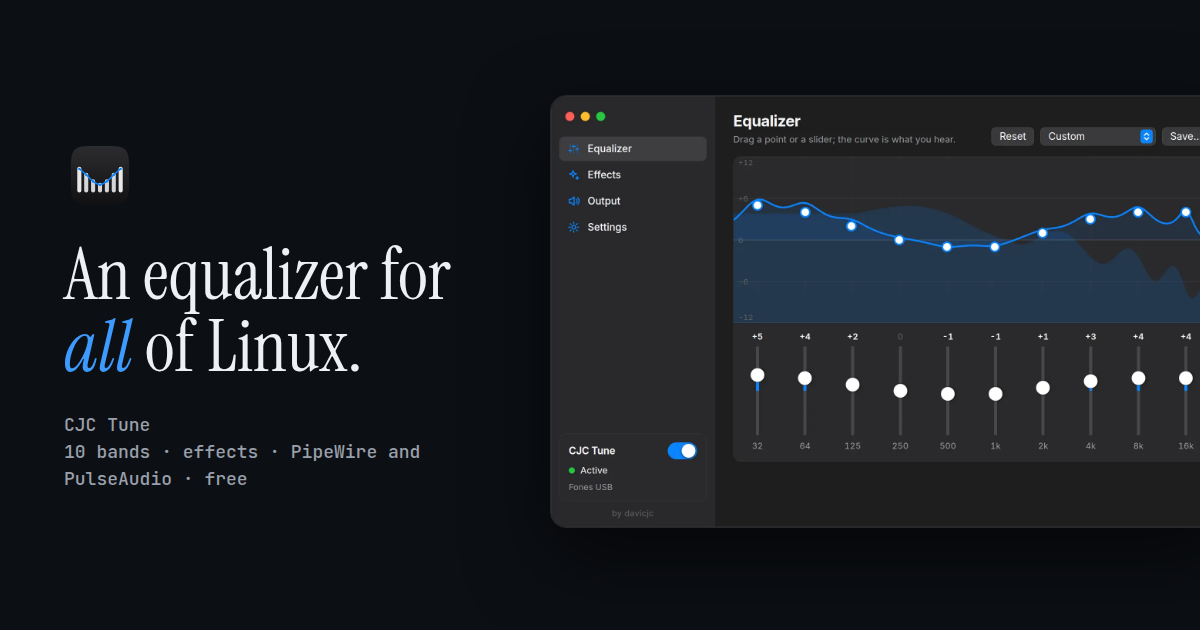
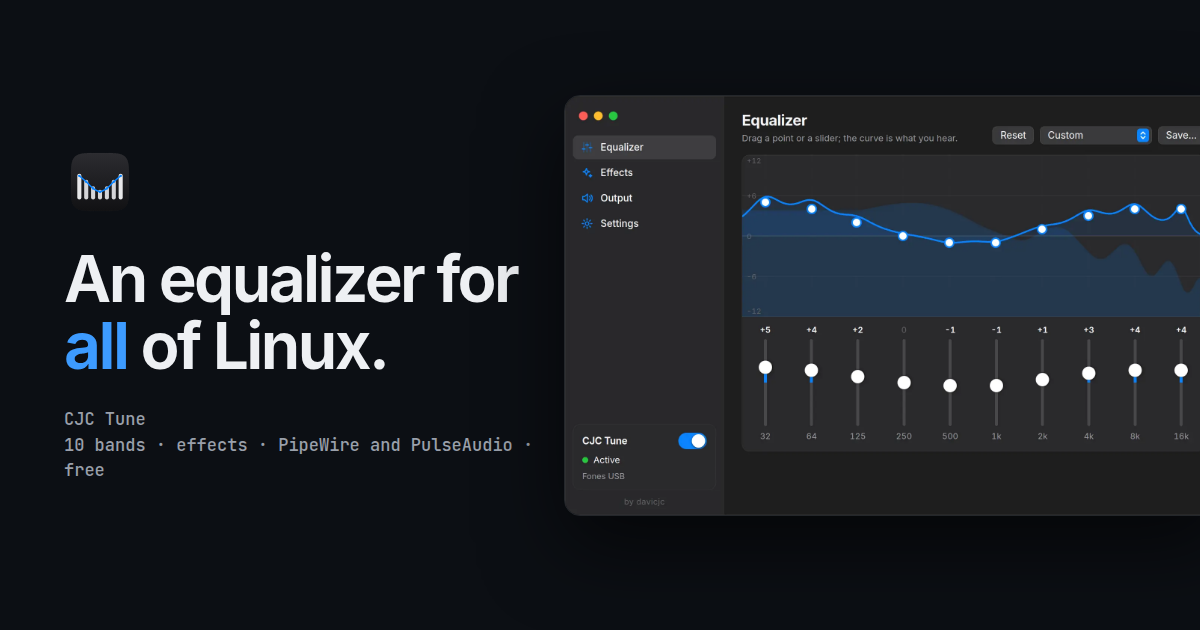
Página: tudo centralizado e títulos em Inter
- Topo, hero, cabeçalhos, fluxo, recursos, demo, telas, instalar e
  perguntas no mesmo eixo central; o hero vira coluna com a curva grande
  embaixo; o baralho de telas fica no meio com o texto em cima.
- Títulos em Inter 650 com espaçamento apertado (sai a serifada);
  ênfase só pela cor. Imagens de compartilhamento refeitas.

diff --git a/site/estilo.css b/site/estilo.css
@@ -5,8 +5,6 @@
 
 @font-face { font-family: "Inter"; src: url("fontes/inter-latin-wght-normal.woff2") format("woff2"); font-weight: 100 900; font-display: swap; unicode-range: U+0000-00FF, U+0131, U+0152-0153, U+02BB-02BC, U+02C6, U+02DA, U+02DC, U+2000-206F, U+20AC, U+2122, U+2191, U+2193, U+2212, U+2215, U+FEFF, U+FFFD; }
 @font-face { font-family: "Inter"; src: url("fontes/inter-latin-ext-wght-normal.woff2") format("woff2"); font-weight: 100 900; font-display: swap; unicode-range: U+0100-02AF, U+0304, U+0308, U+0329, U+1E00-1E9F, U+1EF2-1EFF, U+2020, U+20A0-20AB, U+20AD-20C0, U+2113, U+2C60-2C7F, U+A720-A7FF; }
-@font-face { font-family: "Instrument Serif"; src: url("fontes/instrument-serif-latin-400-normal.woff2") format("woff2"); font-weight: 400; font-style: normal; font-display: swap; }
-@font-face { font-family: "Instrument Serif"; src: url("fontes/instrument-serif-latin-400-italic.woff2") format("woff2"); font-weight: 400; font-style: italic; font-display: swap; }
 @font-face { font-family: "JetBrains Mono"; src: url("fontes/jetbrains-mono-latin-wght-normal.woff2") format("woff2"); font-weight: 100 800; font-display: swap; }
 
 :root {
@@ -26,10 +24,12 @@
   --fio-escuro: rgba(255, 255, 255, 0.09);
   --fio-claro: rgba(20, 22, 26, 0.12);
   --raio: 14px;
-  --display: "Instrument Serif", "Iowan Old Style", Georgia, serif;
+  --display: "Inter", -apple-system, BlinkMacSystemFont, "SF Pro Display", "Segoe UI", sans-serif;
   --texto: "Inter", -apple-system, BlinkMacSystemFont, "Segoe UI", Ubuntu, sans-serif;
   --mono: "JetBrains Mono", ui-monospace, monospace;
-  --largura: 1180px;
+  --largura: 1120px;
+  /* Margem que centraliza qualquer faixa de largura total no mesmo eixo do conteúdo. */
+  --lateral: max(var(--margem), calc((100% - var(--largura)) / 2));
   --margem: clamp(20px, 4vw, 48px);
   color-scheme: dark;
 }
@@ -48,8 +48,8 @@ body {
 }
 img { max-width: 100%; height: auto; display: block; }
 a { color: inherit; }
-h1, h2, h3 { margin: 0; font-weight: 400; }
-em { font-style: italic; color: var(--sinal-forte); }
+h1, h2, h3 { margin: 0; font-weight: 650; }
+em { font-style: normal; color: var(--sinal-forte); }
 :focus-visible { outline: 2px solid var(--sinal); outline-offset: 3px; border-radius: 6px; }
 
 .pular {
@@ -62,7 +62,7 @@ em { font-style: italic; color: var(--sinal-forte); }
 .topo {
   position: sticky; top: 0; z-index: 20;
   display: flex; align-items: center; justify-content: space-between; gap: 24px;
-  padding: 14px var(--margem);
+  padding: 14px var(--lateral);
   background: var(--palco);
   border-bottom: 1px solid var(--fio-escuro);
 }
@@ -99,27 +99,28 @@ em { font-style: italic; color: var(--sinal-forte); }
 /* ── Hero ─────────────────────────────────────────────── */
 .hero {
   max-width: var(--largura); margin: 0 auto;
-  padding: clamp(48px, 8vw, 110px) var(--margem) clamp(40px, 6vw, 80px);
-  display: grid; grid-template-columns: minmax(0, 1fr) minmax(0, 1.08fr); gap: clamp(32px, 5vw, 72px);
-  align-items: center;
+  padding: clamp(56px, 8vw, 104px) var(--margem) clamp(40px, 6vw, 80px);
+  display: flex; flex-direction: column; align-items: center; text-align: center;
 }
+.hero__texto { max-width: 780px; display: flex; flex-direction: column; align-items: center; }
 .kicker {
   margin: 0 0 18px; font: 500 13px/1 var(--mono); letter-spacing: .02em; color: var(--luz-2);
-  display: inline-flex; align-items: center; gap: 10px;
+  display: inline-flex; align-items: center; justify-content: center; gap: 10px;
+  text-transform: uppercase; letter-spacing: .08em; font-size: 12px;
 }
 .kicker::before { content: ""; width: 8px; height: 8px; border-radius: 50%; background: var(--vivo); }
 .hero h1 {
-  font-family: var(--display);
-  font-size: clamp(46px, 6.4vw, 92px); line-height: .98; letter-spacing: -0.02em;
+  font-family: var(--display); font-weight: 650;
+  font-size: clamp(42px, 6vw, 80px); line-height: 1.02; letter-spacing: -0.04em;
 }
-.hero__lead { margin: 24px 0 0; max-width: 34em; color: var(--luz-2); font-size: clamp(16px, .5vw + 14px, 19px); }
-.hero__ctas { display: flex; flex-wrap: wrap; gap: 12px; margin-top: 32px; }
+.hero__lead { margin: 24px auto 0; max-width: 36em; color: var(--luz-2); font-size: clamp(16px, .5vw + 14px, 19px); }
+.hero__ctas { display: flex; flex-wrap: wrap; justify-content: center; gap: 12px; margin-top: 32px; }
 .hero__versao { margin: 16px 0 0; font: 13px var(--mono); color: var(--luz-2); }
-.hero__objeto { margin: 0; }
+.hero__objeto { margin: clamp(44px, 6vw, 72px) 0 0; width: min(100%, 880px); }
 .hero__dica { margin-top: 12px; text-align: center; font-size: 13px; color: var(--luz-2); }
 
 .fatos {
-  grid-column: 1 / -1; list-style: none; margin: clamp(8px, 2vw, 24px) 0 0; padding: 0;
+  width: 100%; list-style: none; margin: clamp(40px, 5vw, 64px) 0 0; padding: 0;
   display: grid; grid-template-columns: repeat(4, 1fr);
   border-top: 1px solid var(--fio-escuro); border-bottom: 1px solid var(--fio-escuro);
 }
@@ -169,20 +170,20 @@ em { font-style: italic; color: var(--sinal-forte); }
 .secao--clara em { color: var(--sinal-papel); }
 .secao--escura { background: var(--palco); }
 .secao--escura + .secao--escura { border-top: 1px solid var(--fio-escuro); }
-.secao__cabeca { margin-bottom: clamp(36px, 5vw, 64px); }
+.secao__cabeca { margin-bottom: clamp(40px, 5vw, 64px); text-align: center; }
 .secao__cabeca h2 {
-  font-family: var(--display); font-size: clamp(36px, 4.6vw, 64px); line-height: 1.02; letter-spacing: -0.015em;
-  max-width: 15em;
+  font-family: var(--display); font-weight: 650; font-size: clamp(32px, 4.2vw, 56px); line-height: 1.06; letter-spacing: -0.035em;
+  max-width: 16em; margin: 0 auto;
 }
-.secao__cabeca p { margin: 18px 0 0; max-width: 40em; color: var(--luz-2); font-size: clamp(16px, .4vw + 14px, 18px); }
+.secao__cabeca p { margin: 18px auto 0; max-width: 40em; color: var(--luz-2); font-size: clamp(16px, .4vw + 14px, 18px); }
 .secao--clara .secao__cabeca p, .secao--clara .secao__nota { color: var(--tinta-2); }
 .num { display: block; margin-bottom: 16px; font: 500 13px var(--mono); color: var(--sinal); }
 .secao--clara .num { color: var(--sinal-papel); }
-.secao__nota { margin-top: 36px; max-width: 46em; color: var(--luz-2); font-size: 15px; }
+.secao__nota { margin: 40px auto 0; max-width: 46em; color: var(--luz-2); font-size: 15px; text-align: center; }
 
 /* 01 · Fluxo do sinal: quatro nós ligados por um fio; um pulso percorre o fio. */
 .fluxo {
-  list-style: none; padding: 0; margin: 0;
+  list-style: none; padding: 0; margin: 0 auto;
   display: grid; grid-template-columns: repeat(4, 1fr); gap: 0;
   position: relative;
 }
@@ -211,7 +212,8 @@ em { font-style: italic; color: var(--sinal-forte); }
 
 /* 02 · Demo */
 .demo { display: grid; gap: 18px; }
-.demo__painel { display: flex; align-items: center; justify-content: space-between; gap: 16px; flex-wrap: wrap; }
+.demo { max-width: 960px; }
+.demo__painel { display: flex; align-items: center; justify-content: center; gap: 16px; flex-wrap: wrap; }
 .tocar {
   display: inline-flex; align-items: center; gap: 10px; min-height: 52px; padding: 0 24px 0 18px; border-radius: 999px;
   border: 1px solid var(--fio-escuro); background: var(--palco-2); color: var(--luz); font: 600 16px var(--texto); cursor: pointer;
@@ -224,22 +226,22 @@ em { font-style: italic; color: var(--sinal-forte); }
   border: 0; background: none; color: var(--luz-2); font: 500 14px var(--texto); padding: 9px 16px; border-radius: 999px; cursor: pointer;
 }
 .ab button[aria-checked="true"] { background: var(--palco-3); color: var(--luz); }
-.chips { display: flex; flex-wrap: wrap; gap: 8px; }
+.chips { display: flex; flex-wrap: wrap; justify-content: center; gap: 8px; }
 .chips button {
   border: 1px solid var(--fio-escuro); background: transparent; color: var(--luz-2);
   font: 500 14px var(--texto); padding: 9px 16px; border-radius: 999px; cursor: pointer; transition: color .15s, border-color .15s;
 }
 .chips button:hover { color: var(--luz); }
 .chips button[aria-checked="true"] { color: var(--luz); border-color: var(--sinal); background: color-mix(in srgb, var(--sinal) 14%, transparent); }
-.demo__nota { margin: 0; font-size: 13px; color: var(--luz-2); }
+.demo__nota { margin: 0; font-size: 13px; color: var(--luz-2); text-align: center; }
 .eq-vivo--grande.desligado .eq-linha, .eq-vivo--grande.desligado .eq-barra { stroke: var(--luz-2); }
 .eq-vivo--grande.desligado .eq-area { fill: var(--luz-2); }
 
 /* 03 · Recursos: grade par (3×2, 2×3, 1×6). */
-.recursos { list-style: none; padding: 0; margin: 0; display: grid; grid-template-columns: repeat(3, 1fr); gap: 1px; background: var(--fio-claro); border: 1px solid var(--fio-claro); border-radius: var(--raio); overflow: hidden; }
+.recursos { list-style: none; padding: 0; margin: 0 auto; display: grid; grid-template-columns: repeat(3, 1fr); gap: 1px; background: var(--fio-claro); border: 1px solid var(--fio-claro); border-radius: var(--raio); overflow: hidden; }
 .recursos li { background: var(--papel); padding: clamp(24px, 3vw, 36px); transition: background .2s; }
 .recursos li:hover { background: #f8f7f3; }
-.recursos h3 { font: 650 18px/1.3 var(--texto); letter-spacing: -0.01em; margin: 18px 0 8px; }
+.recursos h3 { font: 650 18px/1.3 var(--texto); letter-spacing: -0.02em; margin: 18px 0 8px; }
 .recursos p { margin: 0; color: var(--tinta-2); font-size: 15px; }
 .recursos__icone {
   display: grid; place-items: center; width: 44px; height: 44px; border-radius: 12px; background: var(--sinal-papel);
@@ -268,12 +270,15 @@ em { font-style: italic; color: var(--sinal-forte); }
 @media (min-width: 1061px) {
   .telas { height: 360vh; }
   .telas__palco {
-    position: sticky; top: 0; height: 100vh; padding: 92px 0 32px;
-    display: grid; grid-template-columns: minmax(0, .8fr) minmax(0, 1.2fr); gap: 56px; align-items: center;
+    position: sticky; top: 0; height: 100vh; padding: 92px 0 28px;
+    display: flex; flex-direction: column; align-items: center; gap: 28px;
     max-width: var(--largura); margin: 0 auto;
   }
   .telas__palco .secao__cabeca { margin: 0; }
-  .baralho { position: relative; height: min(64vh, 560px); display: block; }
+  .telas__palco .secao__cabeca h2 { font-size: clamp(30px, 3.2vw, 44px); }
+  .telas__palco .secao__cabeca p { margin-top: 10px; }
+  /* Largura limitada pela altura da tela, para a carta inteira caber. */
+  .baralho { position: relative; display: block; width: min(100%, 860px, calc((100vh - 330px) * 1.42)); aspect-ratio: 1760 / 1240; }
   .carta {
     position: absolute; inset: 0 0 auto 0; will-change: transform, opacity;
     transform: translate3d(0, calc(var(--y, 0) * 1px), 0) rotateX(calc(var(--rx, 0) * 1deg)) scale(var(--s, 1));
@@ -283,15 +288,15 @@ em { font-style: italic; color: var(--sinal-forte); }
 }
 
 /* 05 · Instalar */
-.instalar { display: grid; grid-template-columns: repeat(2, 1fr); gap: 20px; }
+.instalar { display: grid; grid-template-columns: repeat(2, 1fr); gap: 20px; max-width: 980px; }
 .pacote { background: #fff; border: 1px solid var(--fio-claro); border-radius: var(--raio); padding: clamp(24px, 3vw, 34px); display: flex; flex-direction: column; }
-.pacote h3 { font: 650 22px var(--texto); letter-spacing: -0.01em; }
+.pacote h3 { font: 650 22px var(--texto); letter-spacing: -0.02em; }
 .pacote p { margin: 6px 0 18px; color: var(--tinta-2); }
 .pacote pre { margin: 0 0 20px; padding: 16px 18px; border-radius: 10px; background: var(--palco); color: var(--luz); overflow-x: auto; font: 13.5px/1.7 var(--mono); flex: 1; }
 .pacote__acoes { display: flex; flex-wrap: wrap; gap: 10px; }
 
 /* 06 · Perguntas */
-.faq { display: grid; gap: 0; border-top: 1px solid var(--fio-escuro); }
+.faq { display: grid; gap: 0; border-top: 1px solid var(--fio-escuro); max-width: 820px; }
 .faq details { border-bottom: 1px solid var(--fio-escuro); }
 .faq summary {
   list-style: none; cursor: pointer; padding: 22px 44px 22px 0; position: relative;
@@ -308,7 +313,7 @@ em { font-style: italic; color: var(--sinal-forte); }
 /* ── Rodapé ───────────────────────────────────────────── */
 .rodape {
   display: flex; justify-content: space-between; align-items: center; gap: 24px; flex-wrap: wrap;
-  padding: 36px var(--margem) 90px; border-top: 1px solid var(--fio-escuro); background: var(--palco);
+  padding: 36px var(--lateral) 90px; border-top: 1px solid var(--fio-escuro); background: var(--palco);
   font-size: 14px; color: var(--luz-2);
 }
 .rodape__marca { display: flex; align-items: center; gap: 14px; }
@@ -321,12 +326,12 @@ em { font-style: italic; color: var(--sinal-forte); }
 /* ── Responsivo ───────────────────────────────────────── */
 @media (max-width: 1060px) {
   .menu { display: none; }
-  .hero { grid-template-columns: 1fr; text-align: center; gap: 0; }
   /* Celular/tablet: título em cima, depois o objeto, depois texto e botões. */
   .hero__texto { display: contents; }
   .kicker { order: 1; }
   .hero h1 { order: 2; }
   .hero__objeto { order: 3; margin: 28px 0 8px; }
+  .hero__dica { margin-bottom: 4px; }
   .hero__lead { order: 4; }
   .hero__ctas { order: 5; }
   .hero__versao { order: 6; }

diff --git a/site/index.html b/site/index.html
@@ -35,7 +35,6 @@
   <link rel="icon" type="image/png" href="./favicon.png">
   <link rel="apple-touch-icon" href="./img/apple-touch-icon.png">
   <link rel="preload" href="./fontes/inter-latin-wght-normal.woff2" as="font" type="font/woff2" crossorigin>
-  <link rel="preload" href="./fontes/instrument-serif-latin-400-normal.woff2" as="font" type="font/woff2" crossorigin>
   <link rel="stylesheet" href="./estilo.css">
 
   <script type="application/ld+json">[{"@context":"https://schema.org","@type":"SoftwareApplication","name":"CJC Tune","url":"https://tune.cjc.pics/","description":"Equalizador de 10 bandas e efeitos para todo o som do Linux: música, filmes, jogos e chamadas. Grátis, código aberto, AppImage e .deb. Funciona com PipeWire e PulseAudio.","applicationCategory":"MultimediaApplication","applicationSubCategory":"Audio equalizer","operatingSystem":"Linux","softwareVersion":"1.0.0","license":"https://opensource.org/licenses/MIT","isAccessibleForFree":true,"offers":{"@type":"Offer","price":"0","priceCurrency":"BRL"},"downloadUrl":"https://github.com/Davicjc/cjc-tune/releases/latest","installUrl":"https://tune.cjc.pics/#instalar","codeRepository":"https://github.com/Davicjc/cjc-tune","screenshot":"https://tune.cjc.pics/img/eq-pt.webp","image":"https://tune.cjc.pics/img/icone-512.png","inLanguage":["pt-BR","en","es","zh-CN"],"featureList":["Reiniciar serviço de áudio","Predefinições com o seu nome","Saída automática","Fica na bandeja","Atualiza pelo app","Claro, escuro e 4 idiomas"],"author":{"@type":"Person","name":"Davi Castro","alternateName":"davicjc","url":"https://davicjc.com"}},{"@context":"https://schema.org","@type":"FAQPage","mainEntity":[{"@type":"Question","name":"Funciona no Ubuntu, Linux Mint, Fedora e Arch?","acceptedAnswer":{"@type":"Answer","text":"Funciona em qualquer distribuição com PipeWire ou PulseAudio. O AppImage roda em todas; o .deb é para Debian, Ubuntu, Mint e derivados. O código é testado com PipeWire e com PulseAudio de verdade a cada mudança."}},{"@type":"Question","name":"É grátis?","acceptedAnswer":{"@type":"Answer","text":"Sim. É código aberto, licença MIT, sem conta, sem anúncio."}},{"@type":"Question","name":"Funciona com Spotify, navegador e jogos?","acceptedAnswer":{"@type":"Answer","text":"Sim. Ele processa a saída do sistema inteiro, então vale para qualquer programa que toque som, sem configurar cada um."}},{"@type":"Question","name":"O som estalou ou sumiu. O que eu faço?","acceptedAnswer":{"@type":"Answer","text":"Clique com o botão direito no ícone da bandeja e escolha Reiniciar serviço de áudio. Ele recria o dispositivo e zera os filtros em um instante. Também existe na tela Saída e por comando: pkill -USR2 cjc-tune."}},{"@type":"Question","name":"Ele envia dados meus para algum lugar?","acceptedAnswer":{"@type":"Answer","text":"Não. A única conexão é a consulta ao GitHub para saber se existe versão nova, e você pode desligar nos Ajustes."}},{"@type":"Question","name":"Qual a relação com o FXSound?","acceptedAnswer":{"@type":"Answer","text":"O CJC Tune nasceu do FXSound for Linux, um projeto comunitário de código aberto (licença MIT), e ganhou interface, organização e recursos próprios. Não tem ligação com o FxSound do Windows."}},{"@type":"Question","name":"Como desinstalar?","acceptedAnswer":{"@type":"Answer","text":"AppImage: apague o arquivo. .deb: sudo apt remove cjc-tune. Fechar o app sempre devolve o som para a saída normal."}}]},{"@context":"https://schema.org","@type":"WebSite","name":"CJC Tune","url":"https://tune.cjc.pics/","inLanguage":"pt-BR","publisher":{"@type":"Person","name":"Davi Castro","url":"https://davicjc.com"}}]</script>

diff --git a/site/en/index.html b/site/en/index.html
@@ -35,7 +35,6 @@
   <link rel="icon" type="image/png" href="../favicon.png">
   <link rel="apple-touch-icon" href="../img/apple-touch-icon.png">
   <link rel="preload" href="../fontes/inter-latin-wght-normal.woff2" as="font" type="font/woff2" crossorigin>
-  <link rel="preload" href="../fontes/instrument-serif-latin-400-normal.woff2" as="font" type="font/woff2" crossorigin>
   <link rel="stylesheet" href="../estilo.css">
 
   <script type="application/ld+json">[{"@context":"https://schema.org","@type":"SoftwareApplication","name":"CJC Tune","url":"https://tune.cjc.pics/en/","description":"A 10-band equalizer and sound effects for everything Linux plays: music, movies, games and calls. Free, open source, AppImage and .deb. Works with PipeWire and PulseAudio.","applicationCategory":"MultimediaApplication","applicationSubCategory":"Audio equalizer","operatingSystem":"Linux","softwareVersion":"1.0.0","license":"https://opensource.org/licenses/MIT","isAccessibleForFree":true,"offers":{"@type":"Offer","price":"0","priceCurrency":"BRL"},"downloadUrl":"https://github.com/Davicjc/cjc-tune/releases/latest","installUrl":"https://tune.cjc.pics/en/#instalar","codeRepository":"https://github.com/Davicjc/cjc-tune","screenshot":"https://tune.cjc.pics/img/eq-en.webp","image":"https://tune.cjc.pics/img/icone-512.png","inLanguage":["pt-BR","en","es","zh-CN"],"featureList":["Restart audio service","Presets with your own names","Automatic output","Lives in the tray","Updates from the app","Light, dark and 4 languages"],"author":{"@type":"Person","name":"Davi Castro","alternateName":"davicjc","url":"https://davicjc.com"}},{"@context":"https://schema.org","@type":"FAQPage","mainEntity":[{"@type":"Question","name":"Does it work on Ubuntu, Linux Mint, Fedora and Arch?","acceptedAnswer":{"@type":"Answer","text":"It works on any distribution with PipeWire or PulseAudio. The AppImage runs everywhere; the .deb is for Debian, Ubuntu, Mint and derivatives. The code is tested against real PipeWire and PulseAudio on every change."}},{"@type":"Question","name":"Is it free?","acceptedAnswer":{"@type":"Answer","text":"Yes. Open source, MIT license, no account, no ads."}},{"@type":"Question","name":"Does it work with Spotify, browsers and games?","acceptedAnswer":{"@type":"Answer","text":"Yes. It processes the whole system output, so it applies to every app that plays sound, with nothing to set up per app."}},{"@type":"Question","name":"The sound crackles or is gone. What do I do?","acceptedAnswer":{"@type":"Answer","text":"Right-click the tray icon and choose Restart audio service. It recreates the device and clears the filters in a moment. It is also on the Output page and available as a command: pkill -USR2 cjc-tune."}},{"@type":"Question","name":"Does it send my data anywhere?","acceptedAnswer":{"@type":"Answer","text":"No. The only connection is asking GitHub whether a new version exists, and you can turn that off in Settings."}},{"@type":"Question","name":"How is it related to FXSound?","acceptedAnswer":{"@type":"Answer","text":"CJC Tune grew out of FXSound for Linux, a community open-source project (MIT license), and has its own interface, code layout and features. It is not affiliated with FxSound for Windows."}},{"@type":"Question","name":"How do I uninstall it?","acceptedAnswer":{"@type":"Answer","text":"AppImage: delete the file. .deb: sudo apt remove cjc-tune. Quitting the app always gives the sound back to the normal output."}}]},{"@context":"https://schema.org","@type":"WebSite","name":"CJC Tune","url":"https://tune.cjc.pics/","inLanguage":"en","publisher":{"@type":"Person","name":"Davi Castro","url":"https://davicjc.com"}}]</script>

diff --git a/site/src/pagina.html b/site/src/pagina.html
@@ -35,7 +35,6 @@
   <link rel="icon" type="image/png" href="{{raiz}}favicon.png">
   <link rel="apple-touch-icon" href="{{raiz}}img/apple-touch-icon.png">
   <link rel="preload" href="{{raiz}}fontes/inter-latin-wght-normal.woff2" as="font" type="font/woff2" crossorigin>
-  <link rel="preload" href="{{raiz}}fontes/instrument-serif-latin-400-normal.woff2" as="font" type="font/woff2" crossorigin>
   <link rel="stylesheet" href="{{raiz}}estilo.css">
 
   <script type="application/ld+json">{{jsonld}}</script>
